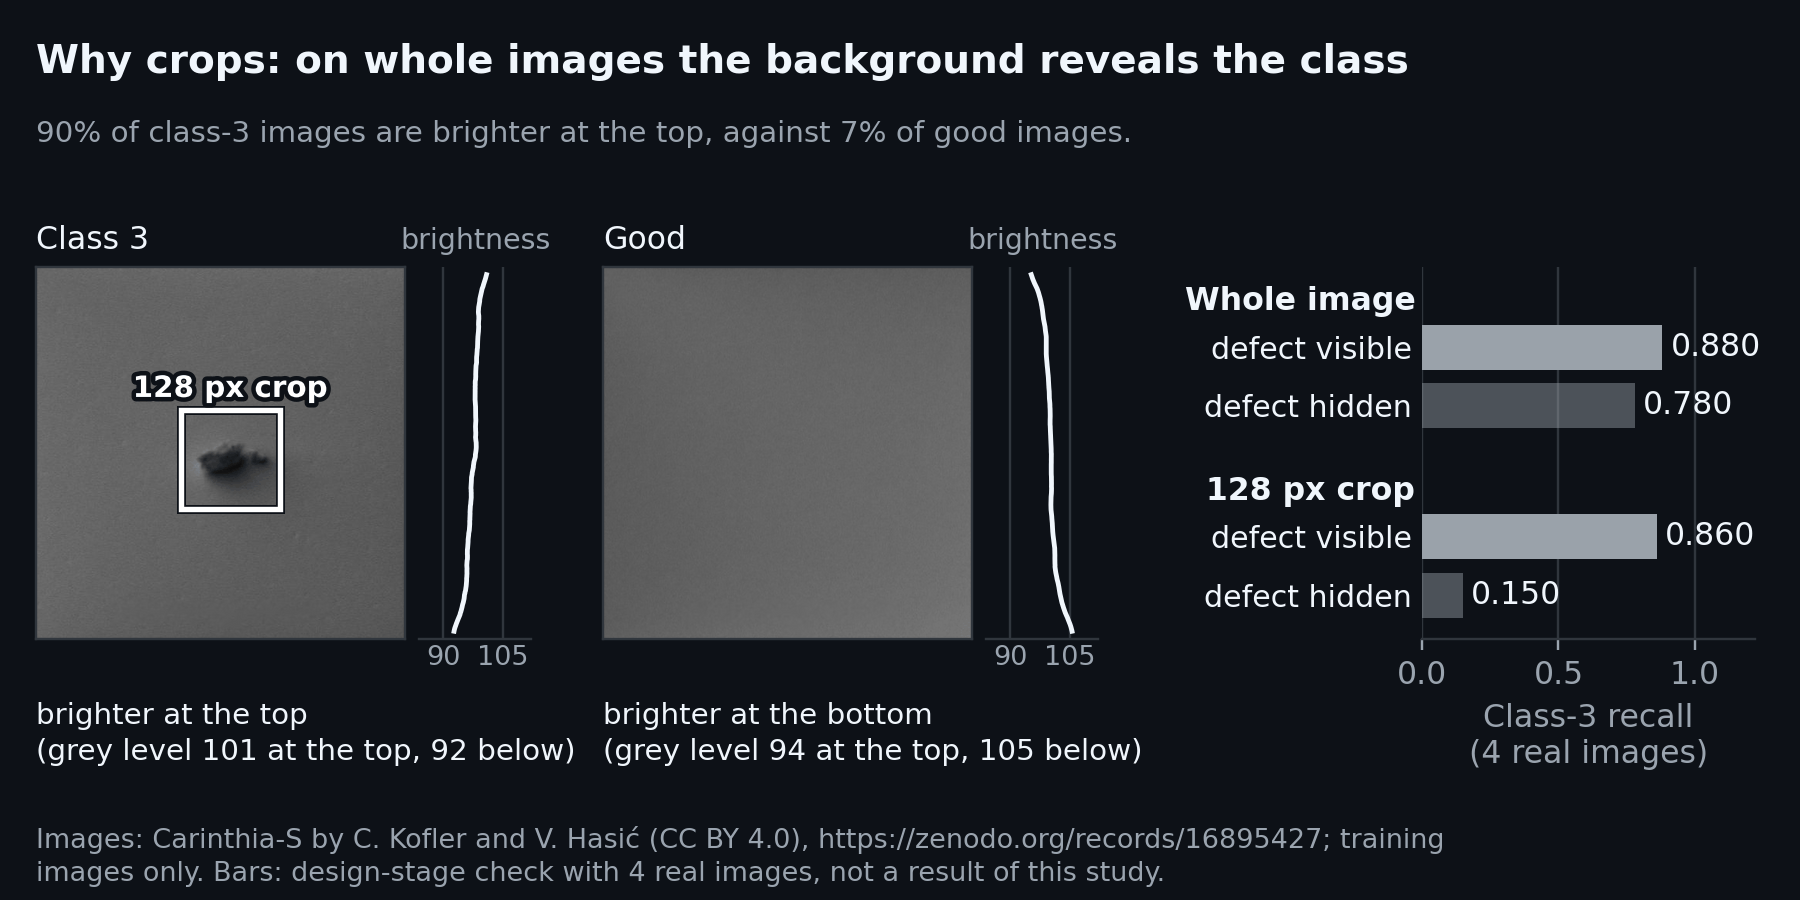
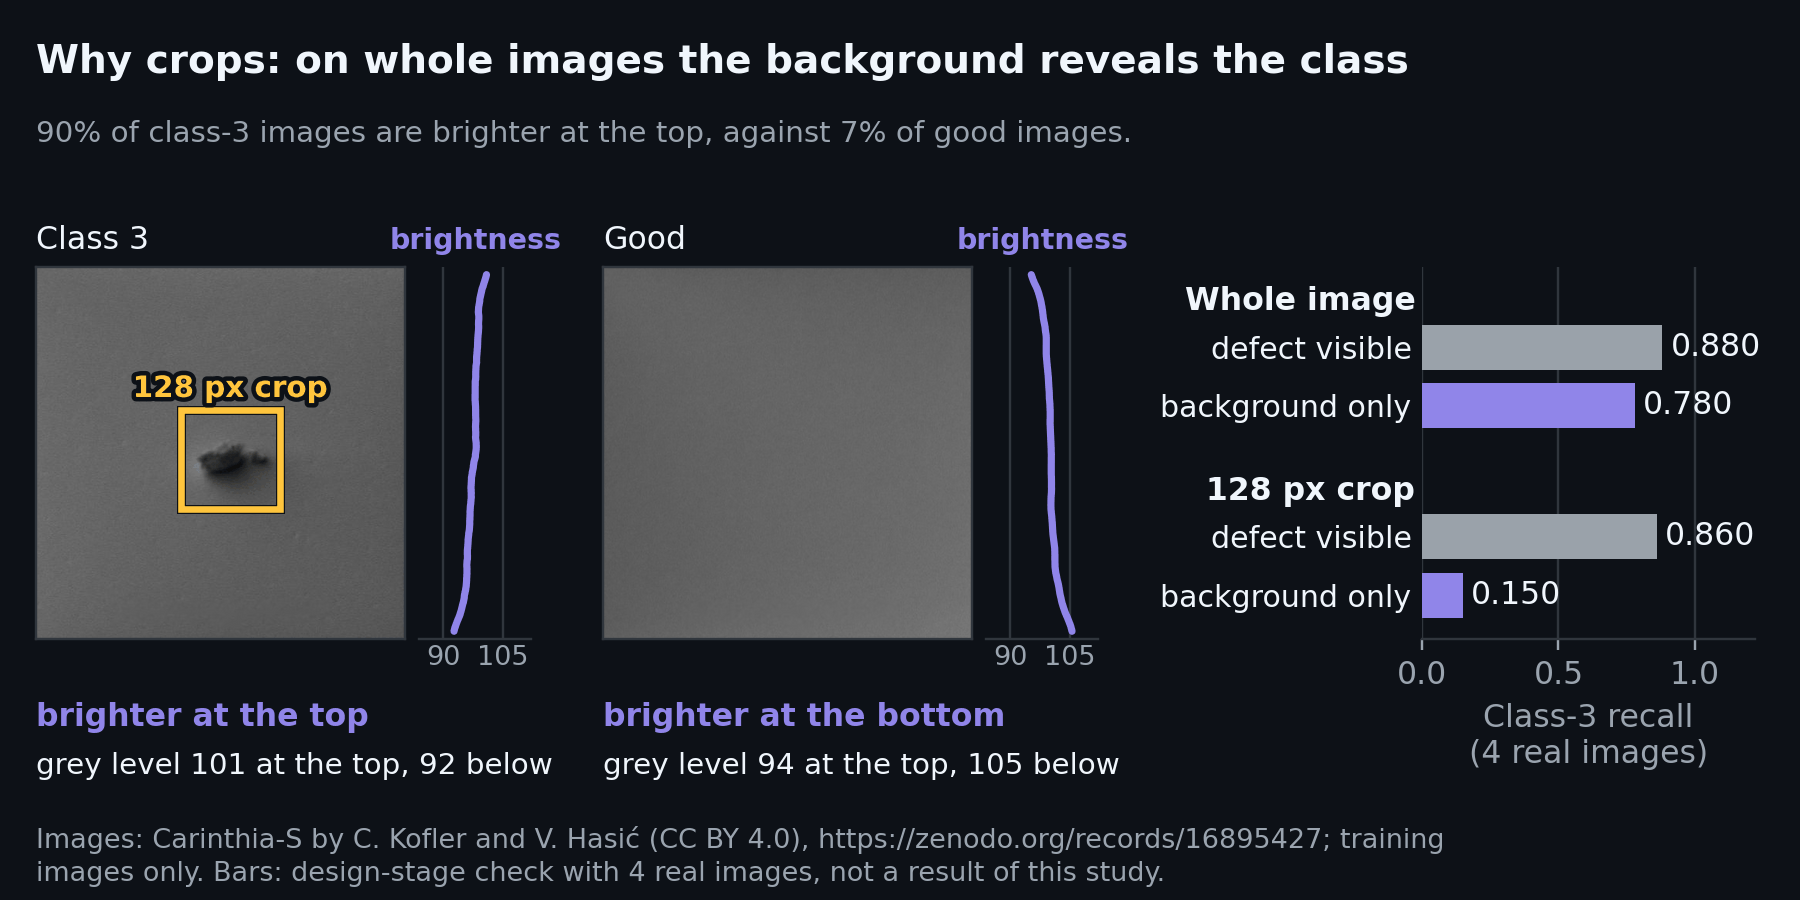
Add colour to figure 5

diff --git a/scripts/make_figures.py b/scripts/make_figures.py
@@ -443,6 +443,7 @@ def fig05(t, mode, private):
     h = w * W / hgt * a.shape[0] / a.shape[1]
     yb = 0.29
     stroke = [pe.withStroke(linewidth=3, foreground="#0d1117")]
+    CROP = "#ffc53d"                                   # crop frame: readable on the grey SEM image in both themes
     for i, (im, name) in enumerate(((a, "Class 3"), (b, "Good"))):
         xl = 0.02 + i * 0.315
         ax = fig.add_axes([xl, yb, w, h])
@@ -450,14 +451,14 @@ def fig05(t, mode, private):
         frame(ax, t)
         ax.set_title(name, fontsize=10.5, color=t["fg"], pad=6, loc="left")
         if i == 0:
-            ax.add_patch(plt.Rectangle((x0, y0), 128, 128, fill=False, edgecolor="#ffffff", linewidth=1.8,
+            ax.add_patch(plt.Rectangle((x0, y0), 128, 128, fill=False, edgecolor=CROP, linewidth=2.2,
                                        path_effects=stroke))
-            ax.text(x0 + 64, y0 - 9, "128 px crop", ha="center", va="bottom", fontsize=9.8, color="#ffffff",
+            ax.text(x0 + 64, y0 - 9, "128 px crop", ha="center", va="bottom", fontsize=9.8, color=CROP,
                     fontweight="bold", path_effects=stroke)
         bg = np.concatenate([im[:, :100], im[:, -100:]], axis=1).mean(axis=1)       # background columns only
         bg = np.convolve(np.pad(bg[10:-10], 12, mode="edge"), np.ones(25) / 25, mode="valid")
         px = fig.add_axes([xl + w + 0.008, yb, 0.062, h])
-        px.plot(bg, np.arange(len(bg)) + 10, color=t["fg"], lw=1.6)
+        px.plot(bg, np.arange(len(bg)) + 10, color=t["accent"], lw=2.4, solid_capstyle="round")
         px.set_ylim(im.shape[0] - 1, 0)
         px.set_xlim(84, 112)
         px.set_xticks([90, 105])
@@ -465,23 +466,23 @@ def fig05(t, mode, private):
         px.tick_params(axis="x", length=0, labelsize=9, pad=2)
         px.xaxis.grid(True, color=t["grid"], lw=0.8)
         px.spines["left"].set_visible(False)
-        px.set_title("brightness", fontsize=9.5, color=t["fg2"], pad=6)
+        px.set_title("brightness", fontsize=9.5, color=t["accent"], pad=6, fontweight="bold")
         top, bot = im[:40].mean(), im[-40:].mean()
-        fig.text(xl, yb - 0.07, f"brighter at the {'top' if top > bot else 'bottom'}\n"
-                 f"(grey level {top:.0f} at the top, {bot:.0f} below)", fontsize=9.8, color=t["fg"], va="top",
-                 linespacing=1.35)
+        fig.text(xl, yb - 0.07, f"brighter at the {'top' if top > bot else 'bottom'}", fontsize=10.5,
+                 color=t["accent"], va="top", fontweight="bold")
+        fig.text(xl, yb - 0.125, f"grey level {top:.0f} at the top, {bot:.0f} below", fontsize=9.8, color=t["fg"],
+                 va="top")
     ax = fig.add_axes([0.79, yb, 0.185, h])
     ys, labels = [], []
     for gi, (grp, (vis, hid)) in enumerate(diagnosis.items()):
         base = 3.0 - gi * 2.6
-        ax.barh([base, base - 0.8], [vis, hid], height=0.62, color=t["neutral"], zorder=3)
-        ax.patches[-1].set_alpha(0.45)
+        ax.barh([base, base - 0.8], [vis, hid], height=0.62, color=[t["neutral"], t["accent"]], zorder=3)
         for y, v in ((base, vis), (base - 0.8, hid)):
             ax.text(v + 0.03, y, f"{v:.3f}", va="center", fontsize=10.5, color=t["fg"])
         ax.text(-0.02, base + 0.62, grp, fontsize=10.5, fontweight="bold", color=t["fg"], va="center", ha="right",
                 transform=ax.get_yaxis_transform())
         ys += [base, base - 0.8]
-        labels += ["defect visible", "defect hidden"]
+        labels += ["defect visible", "background only"]
     ax.set_yticks(ys, labels, fontsize=10)
     ax.tick_params(axis="y", length=0, labelcolor=t["fg"])
     ax.set_ylim(-1.0, 4.1)

diff --git a/README.md b/README.md
@@ -148,7 +148,7 @@ The first-round design used whole images. I measured the background brightness a
   <img src="figures/fig05_why_crop_light.png" alt="A class-3 training image with the 128 px crop marked and a good training image, each with the mean grey level of every row; on the right, class-3 recall for four inputs: whole image with the defect visible 0.880 and hidden 0.780, 128 px crop with the defect visible 0.860 and hidden 0.150">
 </picture>
 
-<sub>Figure 5. Left: a class-3 and a good training image with the mean grey level of every row; the shading runs in opposite directions. White frame: the 128 px crop. Right: class-3 recall with the defect visible (solid) and hidden (faded). Images: Carinthia-S (CC BY 4.0), training images only.</sub>
+<sub>Figure 5. Left: a class-3 and a good training image with the mean grey level of every row; the shading runs in opposite directions. Yellow frame: the 128 px crop. Right: class-3 recall with the defect visible (grey) and with the background only (purple). Images: Carinthia-S (CC BY 4.0), training images only.</sub>
 
 <details>
 <summary>Values of the design-stage diagnosis</summary>
